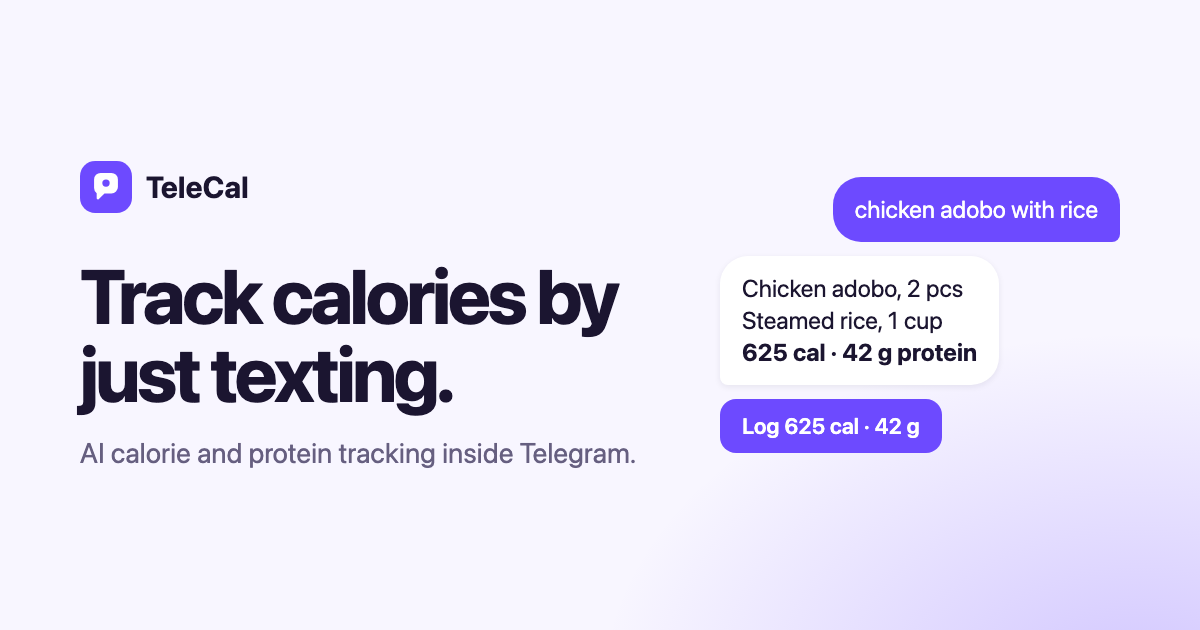
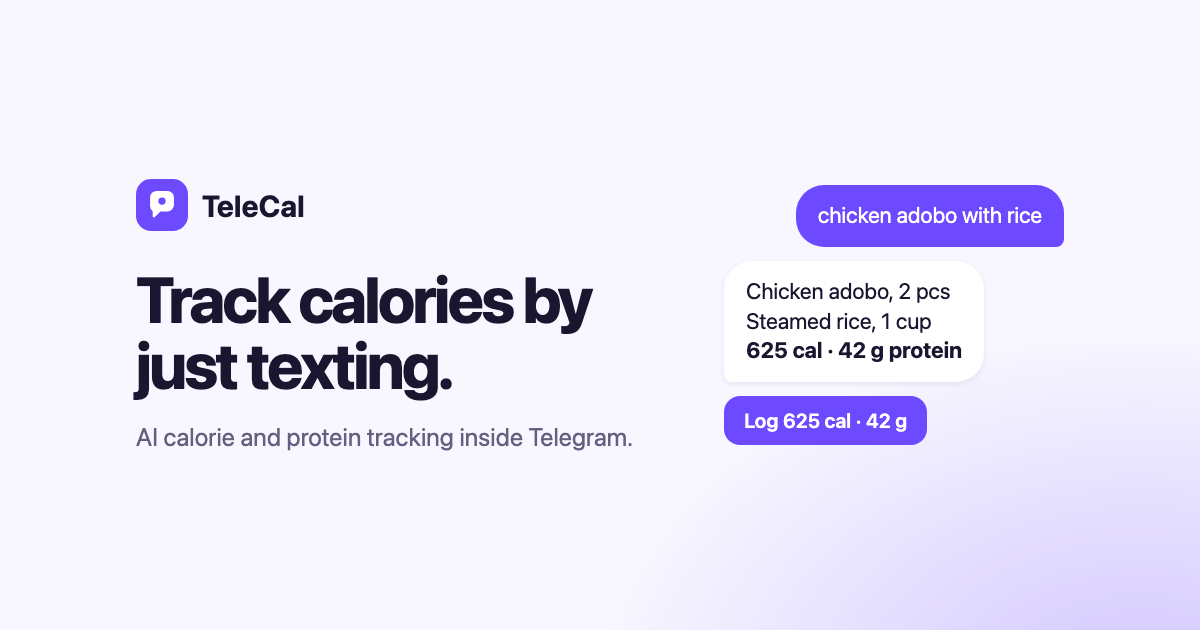
feat(web): link-preview image fits a 16:10 cover crop; image alt and Twitter tags
The Portfolio's OG covers show images at 16:10 with object-fit: cover,
keeping the middle 1008px of 1200. og.html now pads 136px per side so
nothing is cut, and the page adds og:image:alt (the Portfolio's coverAlt
suggestion), og:image:type, og:locale and the twitter:* mirrors.

diff --git a/scripts/og.html b/scripts/og.html
@@ -2,16 +2,17 @@
 <html><head><meta charset="utf-8"><style>
   * { margin:0; padding:0; box-sizing:border-box }
   body { width:1200px; height:630px; overflow:hidden; font-family:-apple-system,BlinkMacSystemFont,"SF Pro Display",sans-serif; color:#1B1530;
-         background:radial-gradient(900px 600px at 95% 110%, rgba(109,74,255,.28), transparent 60%), #F8F6FF; display:flex; align-items:center; padding:0 80px; gap:56px }
+         background:radial-gradient(900px 600px at 95% 110%, rgba(109,74,255,.28), transparent 60%), #F8F6FF; display:flex; align-items:center; padding:0 136px; gap:48px }
+  /* 136px sides keep everything inside the middle 16:10 (1008px) a cover crop keeps */
   .copy { flex:1 }
-  .brand { display:flex; align-items:center; gap:14px; font-size:30px; font-weight:700; margin-bottom:44px }
-  h1 { font-size:76px; line-height:1.02; letter-spacing:-.04em; font-weight:750; margin-bottom:24px }
-  p { font-size:28px; color:#665F80 }
-  .chat { width:400px; display:flex; flex-direction:column; gap:14px }
-  .b { font-size:24px; line-height:1.35; padding:16px 22px; border-radius:28px; max-width:92% }
+  .brand { display:flex; align-items:center; gap:14px; font-size:30px; font-weight:700; margin-bottom:36px }
+  h1 { font-size:64px; line-height:1.02; letter-spacing:-.04em; font-weight:750; margin-bottom:24px }
+  p { font-size:25px; color:#665F80 }
+  .chat { width:340px; display:flex; flex-direction:column; gap:14px }
+  .b { font-size:22px; line-height:1.35; padding:16px 22px; border-radius:28px; max-width:92% }
   .me { align-self:flex-end; background:#6D4AFF; color:#fff; border-bottom-right-radius:8px }
   .bot { align-self:flex-start; background:#fff; border-bottom-left-radius:8px; box-shadow:0 2px 6px rgba(27,21,48,.08) }
-  .btn { align-self:flex-start; background:#6D4AFF; color:#fff; font-weight:600; font-size:22px; border-radius:16px; padding:14px 22px }
+  .btn { align-self:flex-start; background:#6D4AFF; color:#fff; font-weight:600; font-size:20px; border-radius:16px; padding:13px 20px }
 </style></head><body>
   <div class="copy">
     <div class="brand"><svg width="52" height="52" viewBox="0 0 24 24"><rect width="24" height="24" rx="7" fill="#6D4AFF"/><path d="M6.5 8.5a3 3 0 0 1 3-3h5a3 3 0 0 1 3 3v3.5a3 3 0 0 1-3 3h-3.2L8.6 17.6c-.4.3-.9 0-.9-.4v-2.3a3 3 0 0 1-1.2-2.4z" fill="#fff"/><circle cx="12" cy="10.2" r="1.7" fill="#6D4AFF"/></svg>TeleCal</div>

diff --git a/src/web/views/landing.html b/src/web/views/landing.html
@@ -16,9 +16,16 @@
 <meta property="og:description" content="AI calorie and protein tracking inside Telegram. Free during beta.">
 <meta property="og:url" content="{{BASE_URL}}/">
 <meta property="og:image" content="{{BASE_URL}}/assets/og.png">
+<meta property="og:image:type" content="image/png">
 <meta property="og:image:width" content="1200">
 <meta property="og:image:height" content="630">
+<meta property="og:image:alt" content="TeleCal: track calories by just texting. A Telegram chat logs chicken adobo with rice at 625 calories and 42 g protein.">
+<meta property="og:locale" content="en_US">
 <meta name="twitter:card" content="summary_large_image">
+<meta name="twitter:title" content="TeleCal: track calories by just texting">
+<meta name="twitter:description" content="AI calorie and protein tracking inside Telegram. Free during beta.">
+<meta name="twitter:image" content="{{BASE_URL}}/assets/og.png">
+<meta name="twitter:image:alt" content="TeleCal: track calories by just texting. A Telegram chat logs chicken adobo with rice at 625 calories and 42 g protein.">
 <style>
   :root {
     color-scheme: light;

diff --git a/src/web/server.test.ts b/src/web/server.test.ts
@@ -46,6 +46,21 @@ describe("routes", () => {
     expect(body).not.toContain("{{")
   })
 
+  test("/ carries Open Graph and Twitter card tags with absolute image URLs", async () => {
+    const body = await (await get("/")).text()
+    const meta = (key: string) =>
+      body.match(new RegExp(`<meta (?:property|name)="${key}" content="([^"]*)">`))?.[1]
+
+    expect(meta("og:image")).toBe("https://telecal.example/assets/og.png")
+    expect(meta("og:image:type")).toBe("image/png")
+    expect(meta("og:image:alt")).toStartWith("TeleCal: track calories by just texting.")
+    expect(meta("og:locale")).toBe("en_US")
+    expect(meta("twitter:image")).toBe(meta("og:image"))
+    expect(meta("twitter:image:alt")).toBe(meta("og:image:alt"))
+    expect(meta("twitter:title")).toBe(meta("og:title"))
+    expect(meta("twitter:description")).toBe(meta("og:description"))
+  })
+
   test("/ redirects Telegram Web App launches to /app", async () => {
     const body = await (await get("/")).text()
     expect(body).toContain('location.replace("/app" + location.hash)')
